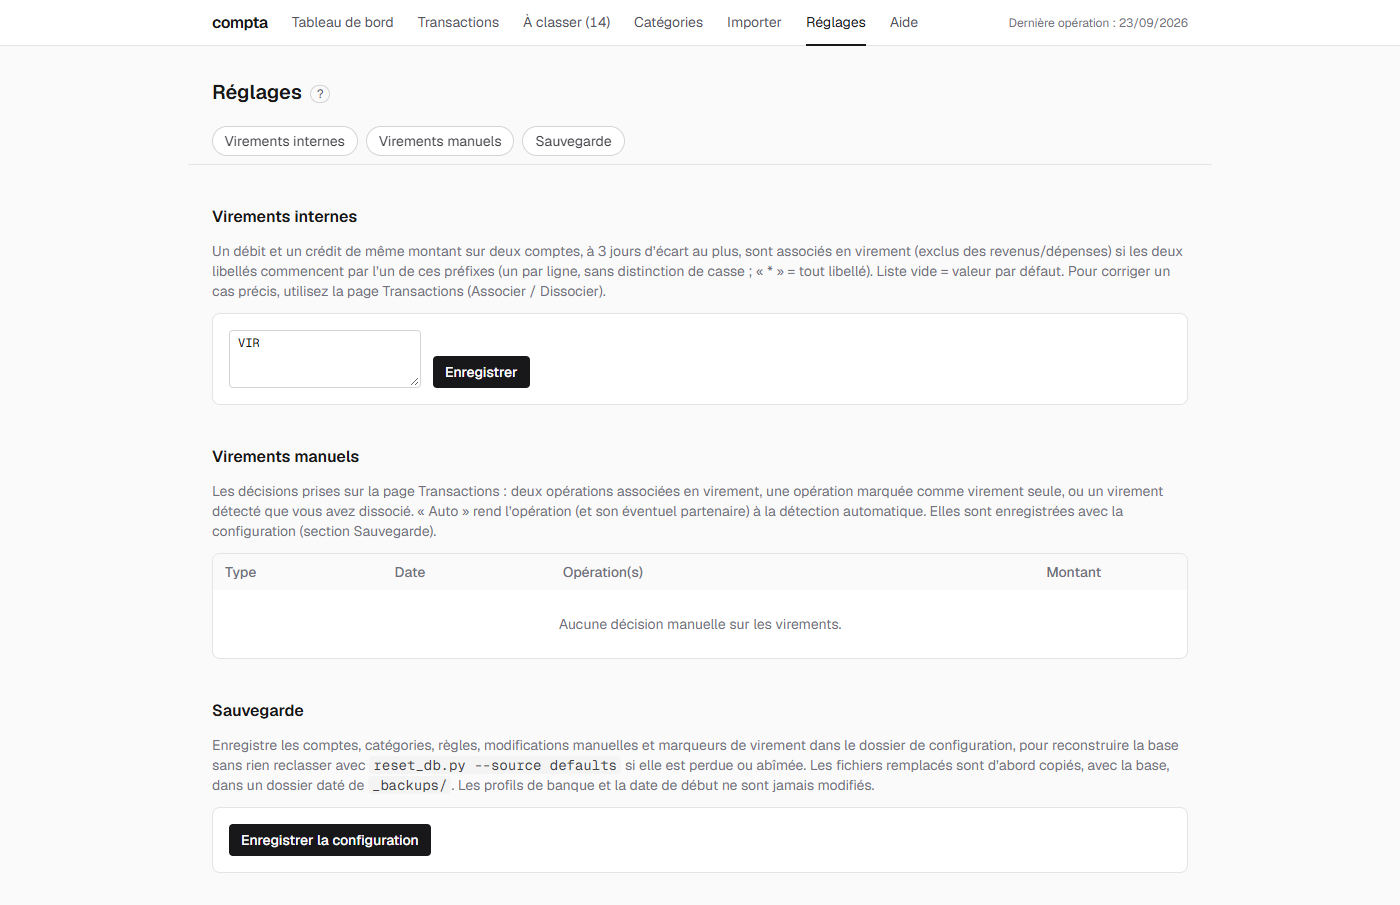
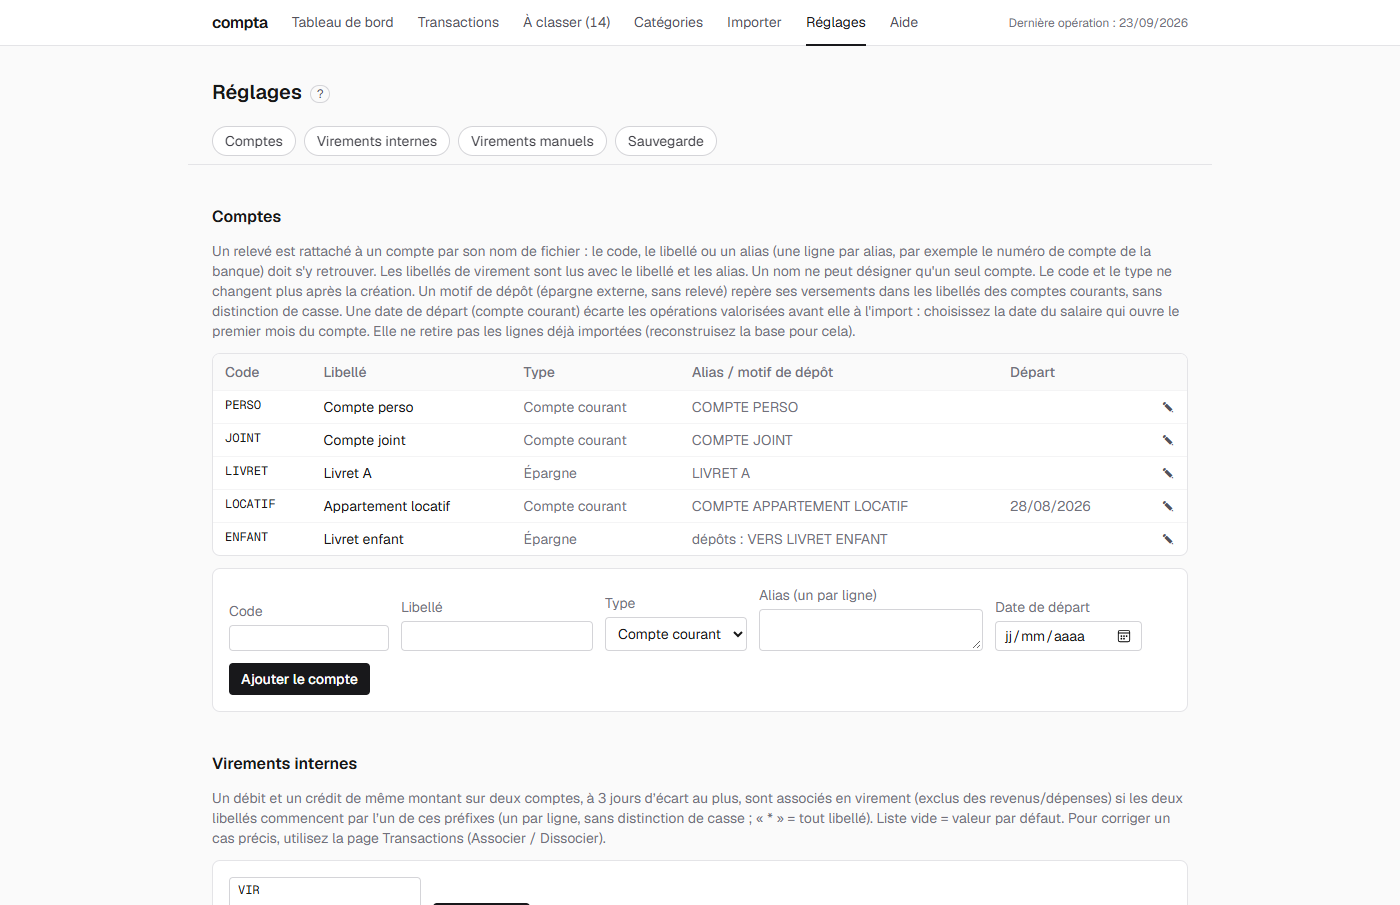
feat: leave partial months out of the monthly averages

diff --git a/frontend/src/components/ResteTrend.tsx b/frontend/src/components/ResteTrend.tsx
@@ -86,10 +86,12 @@ function TrendTooltip({
   active,
   payload,
   latest,
+  partial,
 }: {
   active?: boolean;
   payload?: ReadonlyArray<{ payload?: MonthTotals }>;
   latest?: string;
+  partial: string[];
 }) {
   const m = payload?.[0]?.payload;
   if (!active || !m) return null;
@@ -103,6 +105,12 @@ function TrendTooltip({
       <div className="mb-1 font-medium text-zinc-900">
         {frenchMonth(m.month)}
         {m.month === latest && <span className="font-normal text-zinc-500"> (en cours)</span>}
+        {partial.includes(m.month) && (
+          <span className="font-normal text-zinc-500">
+            {" "}
+            (partiel : un compte n&apos;avait pas démarré)
+          </span>
+        )}
       </div>
       <table className="tabular-nums">
         <tbody>
@@ -132,12 +140,15 @@ export default function ResteTrend({
   history,
   current,
   latest,
+  partial = [],
   onSelect,
 }: {
   history: MonthTotals[];
   current: string;
   /** The latest budget month overall, still filling until the next paycheck. */
   latest?: string;
+  /** Months where an account had not started: flagged in the tooltip, left out of the averages. */
+  partial?: string[];
   onSelect?: (month: string) => void;
 }) {
   if (history.length < 2) return null;
@@ -192,6 +203,7 @@ export default function ResteTrend({
                 active={props.active}
                 payload={props.payload as ReadonlyArray<{ payload?: MonthTotals }>}
                 latest={latest}
+                partial={partial}
               />
             )}
           />

diff --git a/frontend/src/app/page.tsx b/frontend/src/app/page.tsx
@@ -287,6 +287,7 @@ export default function DashboardPage() {
             {data.months_available.map((m) => (
               <option key={m} value={m}>
                 {frenchMonth(m)}
+                {data.months_partial.includes(m) ? " (partiel)" : ""}
               </option>
             ))}
           </select>
@@ -321,6 +322,7 @@ export default function DashboardPage() {
         history={hist}
         current={data.month}
         latest={hist.at(-1)?.month}
+        partial={data.months_partial}
         onSelect={choose}
       />
 

diff --git a/frontend/src/lib/api.ts b/frontend/src/lib/api.ts
@@ -324,6 +324,8 @@ export interface Dashboard {
   /** The budget month shown, ALL_MONTHS for every month, null when there is no data yet. */
   month: string | null;
   months_available: string[];
+  /** Months of months_available where an imported checking account had not started: left out of the averages. */
+  months_partial: string[];
   income: number;
   expenses: number;
   /** Net money set aside to savings this month. */

diff --git a/frontend/src/app/rapport/page.tsx b/frontend/src/app/rapport/page.tsx
@@ -121,6 +121,7 @@ function Report({ report, month, inProgress }: { report: ReportData; month: stri
             history={history}
             current={month}
             latest={data.history.at(-1)?.month}
+            partial={data.months_partial}
           />
         </div>
 

diff --git a/frontend/src/lib/moneyFlow.test.ts b/frontend/src/lib/moneyFlow.test.ts
@@ -22,6 +22,7 @@ function dashboard(salary: number): Dashboard {
   return {
     month: "2026-06",
     months_available: ["2026-06"],
+    months_partial: [],
     income,
     expenses,
     epargne: 200,

diff --git a/backend/tests/test_partial_months.py b/backend/tests/test_partial_months.py
@@ -1,0 +1,112 @@
+"""Partial budget months: an imported checking account had not started, so the monthly averages
+leave the month out (the totals of « Tous les mois » stay untouched)."""
+
+from datetime import date
+
+from app.core.categorize import averaging_window
+from app.core.periods import partial_months
+from app.core.recompute import recompute_all
+from app.db import connect, set_account_start_date
+from tests.conftest import import_rows
+
+
+def _debit(day: str, label: str, euros: float, account: str) -> tuple:
+    return (day, day, label, euros, 0, account)
+
+
+def _salary(day: str) -> tuple:
+    return (day, day, "PAIE EMPLOYEUR", 0, 2500, "JOINT")
+
+
+def _joint_history(db) -> None:
+    """JOINT from June: salaries open the budget months 2026-06 (05/06) to 2026-10, with groceries
+    of 100, 100, 200, 300 and 400 euros in them. The labels carry no transfer marker nor account name."""
+    import_rows(
+        db,
+        _salary("2026-06-05"),
+        _debit("2026-06-10", "CARTE SUPERMARCHE", 100, "JOINT"),
+        _salary("2026-07-03"),
+        _debit("2026-07-10", "CARTE SUPERMARCHE", 100, "JOINT"),
+        _salary("2026-08-03"),
+        _debit("2026-08-10", "CARTE SUPERMARCHE", 200, "JOINT"),
+        _salary("2026-09-02"),
+        _debit("2026-09-10", "CARTE SUPERMARCHE", 300, "JOINT"),
+        _salary("2026-10-02"),
+        _debit("2026-10-10", "CARTE SUPERMARCHE", 400, "JOINT"),
+    )
+
+
+def _partial(db) -> set[str]:
+    with connect(db) as conn:
+        return partial_months(conn)
+
+
+class TestPartialMonths:
+    def test_no_account_started_late_means_no_partial_month(self, seeded_db):
+        _joint_history(seeded_db)
+        recompute_all(seeded_db)
+        assert _partial(seeded_db) == set()
+
+    def test_months_before_an_accounts_first_operation_are_partial(self, seeded_db):
+        _joint_history(seeded_db)
+        import_rows(seeded_db, _debit("2026-07-20", "CARTE LIBRAIRIE", 9, "PERSO"))
+        recompute_all(seeded_db)
+        # 2026-07 opens on 03/07: the account starts 17 days later. 2026-08 opens after it.
+        assert _partial(seeded_db) == {"2026-06", "2026-07"}
+
+    def test_starting_within_the_tolerance_is_not_partial(self, seeded_db):
+        _joint_history(seeded_db)
+        import_rows(seeded_db, _debit("2026-08-07", "CARTE LIBRAIRIE", 9, "PERSO"))  # opening + 4 days
+        recompute_all(seeded_db)
+        assert _partial(seeded_db) == {"2026-06", "2026-07"}
+        import_rows(
+            seeded_db, _debit("2026-09-07", "CARTE PRIMEUR", 4, "LOCATIF")
+        )  # opening + 5 days, and the 09 month too
+        recompute_all(seeded_db)
+        assert _partial(seeded_db) == {"2026-06", "2026-07", "2026-08", "2026-09"}
+
+    def test_the_accounts_start_date_wins_over_its_first_operation(self, seeded_db):
+        _joint_history(seeded_db)
+        import_rows(seeded_db, _debit("2026-09-20", "CARTE LIBRAIRIE", 9, "PERSO"))
+        with connect(seeded_db) as conn:
+            set_account_start_date(conn, "PERSO", date(2026, 7, 3))
+        recompute_all(seeded_db)
+        assert _partial(seeded_db) == {"2026-06"}
+
+    def test_a_savings_account_never_makes_a_month_partial(self, seeded_db):
+        _joint_history(seeded_db)
+        import_rows(seeded_db, (("2026-10-01", "2026-10-01", "INTERETS", 0, 3, "LIVRET")))
+        recompute_all(seeded_db)
+        assert _partial(seeded_db) == set()
+
+    def test_averaging_window_skips_partial_months(self):
+        months = ["2026-06", "2026-07", "2026-08", "2026-09", "2026-10"]
+        assert averaging_window(months, None, {"2026-06", "2026-07"}) == ["2026-08", "2026-09"]
+        assert averaging_window(months, 1, {"2026-09"}) == ["2026-08"]
+        assert averaging_window(months, 6, {"2026-10"}) == ["2026-06", "2026-07", "2026-08", "2026-09"]
+        assert averaging_window(months, None, set(months)) == []
+
+
+class TestPartialMonthsApi:
+    def _late_account(self, db):
+        _joint_history(db)
+        import_rows(db, _debit("2026-07-20", "CARTE LIBRAIRIE", 9, "PERSO"))
+        recompute_all(db)
+
+    def test_dashboard_lists_the_partial_months(self, seeded_db, client):
+        self._late_account(seeded_db)
+        body = client.get("/api/dashboard").json()
+        assert body["months_partial"] == ["2026-07", "2026-06"]
+        assert body["months_available"][0] == "2026-10"
+
+    def test_averages_ignore_them(self, seeded_db, client):
+        self._late_account(seeded_db)
+        body = client.get("/api/dashboard/averages", params={"months": "all"}).json()
+        assert (body["months"], body["first_month"], body["last_month"]) == (2, "2026-08", "2026-09")
+        variable = next(g for g in body["groups"] if g["name"] == "variable")
+        assert variable["expenses"] == 250  # (200 + 300) / 2, not the 4-month 175
+
+    def test_all_months_totals_keep_them(self, seeded_db, client):
+        self._late_account(seeded_db)
+        body = client.get("/api/dashboard", params={"month": "all"}).json()
+        assert body["expenses"] == 1109  # 100 + 100 + 200 + 300 + 400 groceries and the 9 of PERSO

diff --git a/backend/app/core/categorize.py b/backend/app/core/categorize.py
@@ -1,6 +1,8 @@
+from collections.abc import Collection
 from pathlib import Path
 from typing import Any
 
+from app.core.periods import partial_months
 from app.db import DEFAULT_DB_PATH, connect, euros, real_flow_clause, savings_accounts
 
 UNBALANCED_TOLERANCE_CENTS = 1
@@ -344,11 +346,12 @@ def budget_status(
     }
 
 
-def averaging_window(months: list[str], n_months: int | None) -> list[str]:
+def averaging_window(months: list[str], n_months: int | None, partial: Collection[str] = ()) -> list[str]:
     """The complete budget months to average, oldest first: the last `n_months` (all when None) of
     `months` (sorted) before the latest one, which is still filling until the next paycheck opens
-    a newer month."""
-    complete = months[:-1]
+    a newer month, leaving out the `partial` ones (an account had not started, see
+    periods.partial_months)."""
+    complete = [m for m in months[:-1] if m not in partial]
     if n_months is None:
         return complete
     return complete[-n_months:] if n_months > 0 else []
@@ -357,7 +360,7 @@ def averaging_window(months: list[str], n_months: int | None) -> list[str]:
 def category_averages(
     db_path: Path = DEFAULT_DB_PATH, n_months: int | None = None, month: str | None = None
 ) -> dict[str, Any]:
-    """Average monthly spending and income (euros) per category over the complete budget months of
+    """Average monthly spending and income (euros) per category over the complete, non-partial budget months of
     `averaging_window`, plus the values of the displayed `month` (None: no comparison) for the gaps.
 
     Each real leaf takes one side from its net over the whole window (a one-off refund month never
@@ -373,7 +376,7 @@ def category_averages(
         all_months = [
             m for (m,) in conn.execute("SELECT DISTINCT budget_month FROM transactions ORDER BY budget_month")
         ]
-        window = set(averaging_window(all_months, n_months))
+        window = set(averaging_window(all_months, n_months, partial_months(conn)))
         categories = conn.execute(
             "SELECT id, name, parent_id, budget_target_cents FROM categories ORDER BY parent_id, id"
         ).fetchall()

diff --git a/backend/app/core/periods.py b/backend/app/core/periods.py
@@ -15,6 +15,11 @@ def _anchor_month(date_valeur: str) -> str:
     return date_valeur[:7]
 
 
+# Days a statement may start after the account's last operation, or an account after the opening
+# of a budget month, without being flagged: a weekend plus a bank holiday.
+GAP_TOLERANCE_DAYS = 4
+
+
 def budget_starts(conn: sqlite3.Connection) -> dict[str, str]:
     """Budget month -> the date (ISO) of the first deposit opening it, oldest first. Anchors are
     the credits matching a rule flagged `is_income_anchor`; empty without any. Months before the
@@ -82,3 +87,29 @@ def recompute_budget_months(db_path: Path = DEFAULT_DB_PATH) -> int:
                 )
             changed += cur.rowcount
         return changed
+
+
+def partial_months(conn: sqlite3.Connection) -> set[str]:
+    """Budget months in which an imported checking account had not started: its effective start
+    (its own `start_date`, else its first value date) falls more than GAP_TOLERANCE_DAYS after the
+    month's opening (the paycheck opening it, the 1st for a calendar month). The month then lacks
+    that account's flows (and the salary it receives), so its totals are not comparable with the
+    others and the averages leave it out. Generic: any account added later counts the same way."""
+    starts = [
+        date.fromisoformat(start)
+        for (start,) in conn.execute(
+            "SELECT COALESCE(a.start_date, (SELECT MIN(substr(t.date_valeur, 1, 10)) "
+            "FROM transactions t WHERE t.account_id = a.code)) FROM accounts a WHERE a.type = 'checking'"
+        )
+        if start is not None
+    ]
+    if not starts:
+        return set()
+    openings = budget_starts(conn)
+    latest_start = max(starts)
+    partial = set()
+    for (month,) in conn.execute("SELECT DISTINCT budget_month FROM transactions"):
+        opening = date.fromisoformat(openings.get(month, f"{month}-01"))
+        if (latest_start - opening).days > GAP_TOLERANCE_DAYS:
+            partial.add(month)
+    return partial

diff --git a/backend/app/api/dashboard.py b/backend/app/api/dashboard.py
@@ -13,6 +13,7 @@ from app.core.categorize import (
     transfers_summary,
     uncategorized_balance,
 )
+from app.core.periods import partial_months
 from app.db import connect
 from app.schemas import CategoryAverages, Dashboard
 
@@ -39,6 +40,7 @@ def get_dashboard(db_path: DbPath, month: str | None = None) -> Dashboard:
                 "SELECT DISTINCT budget_month FROM transactions ORDER BY budget_month DESC"
             )
         ]
+        partial = partial_months(conn)
     if month is None and months:
         month = months[0]
     period = None if month == ALL_MONTHS else month
@@ -61,6 +63,7 @@ def get_dashboard(db_path: DbPath, month: str | None = None) -> Dashboard:
     return Dashboard(
         month=month,
         months_available=months,
+        months_partial=sorted(partial, reverse=True),
         income=income,
         expenses=expenses,
         epargne=epargne,

diff --git a/backend/app/core/inputs.py b/backend/app/core/inputs.py
@@ -10,7 +10,7 @@ from pathlib import Path
 
 from app.core.bank_profiles import BankProfile
 from app.core.parsing import CsvValidationError, infer_account, parse_statement, rows_since
-from app.core.periods import budget_starts
+from app.core.periods import GAP_TOLERANCE_DAYS, budget_starts
 from app.db import (
     account_start_dates,
     connect,
@@ -79,11 +79,6 @@ def effective_start(global_start: date | None, account_start: date | None) -> da
     """The cutoff of one account's rows: the later of the books' start date and its own."""
     dates = [d for d in (global_start, account_start) if d is not None]
     return max(dates, default=None)
-
-
-# Days a statement may start after the account's last operation without being flagged: a weekend
-# plus a bank holiday.
-GAP_TOLERANCE_DAYS = 4
 
 
 def last_value_date(db_path: Path, account_code: str) -> str | None:

diff --git a/backend/app/api/categories.py b/backend/app/api/categories.py
@@ -5,6 +5,7 @@ from fastapi import APIRouter, HTTPException, Response
 from app.api.deps import DbPath
 from app.core.categorize import DEFICIT_GROUP, SAVINGS_GROUP, apply_rules, averaging_window
 from app.core.config_export import category_paths, csv_text
+from app.core.periods import partial_months
 from app.db import connect, euros, real_flow_clause, to_cents
 from app.schemas import CategoryIn, CategoryMoveIn, CategoryOut, CategoryTargetIn
 
@@ -103,7 +104,7 @@ def _reject_non_spending_target(conn, category: CategoryOut) -> None:
     months = [
         m for (m,) in conn.execute("SELECT DISTINCT budget_month FROM transactions ORDER BY budget_month")
     ]
-    window = averaging_window(months, 12)
+    window = averaging_window(months, 12, partial_months(conn))
     if not window:
         return
     marks = ",".join("?" * len(window))

diff --git a/backend/app/schemas.py b/backend/app/schemas.py
@@ -337,6 +337,11 @@ class CategoryAverages(BaseModel):
 class Dashboard(BaseModel):
     month: str | None = Field(description="The budget month shown, 'all' for every month, None if no data")
     months_available: list[str]
+    months_partial: list[str] = Field(
+        default_factory=list,
+        description="Months of months_available where an imported checking account had not started: "
+        "left out of the monthly averages, flagged « partiel » in the UI",
+    )
     income: float
     expenses: float
     epargne: float = Field(default=0.0, description="Net money set aside to savings this month")
